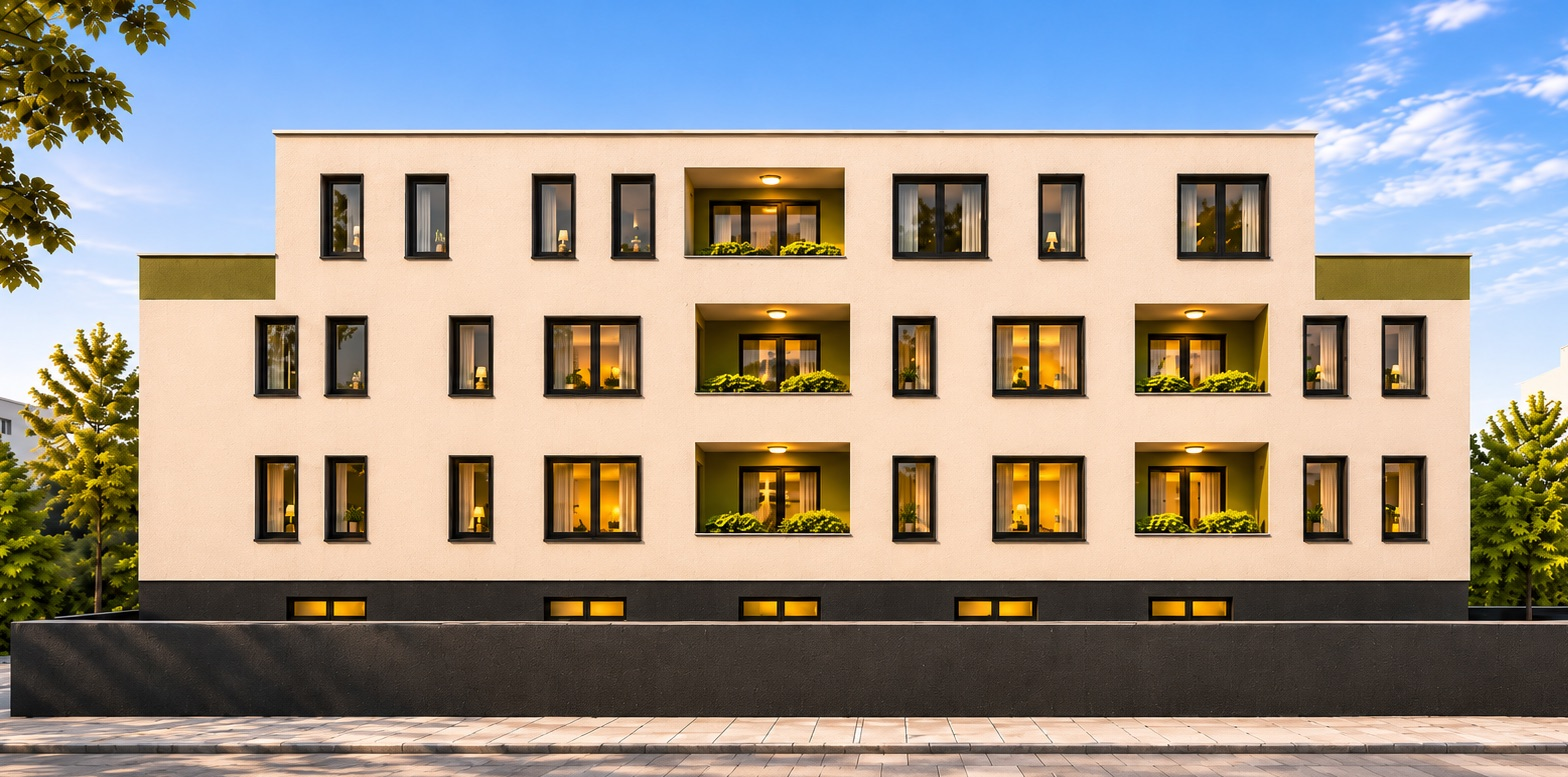
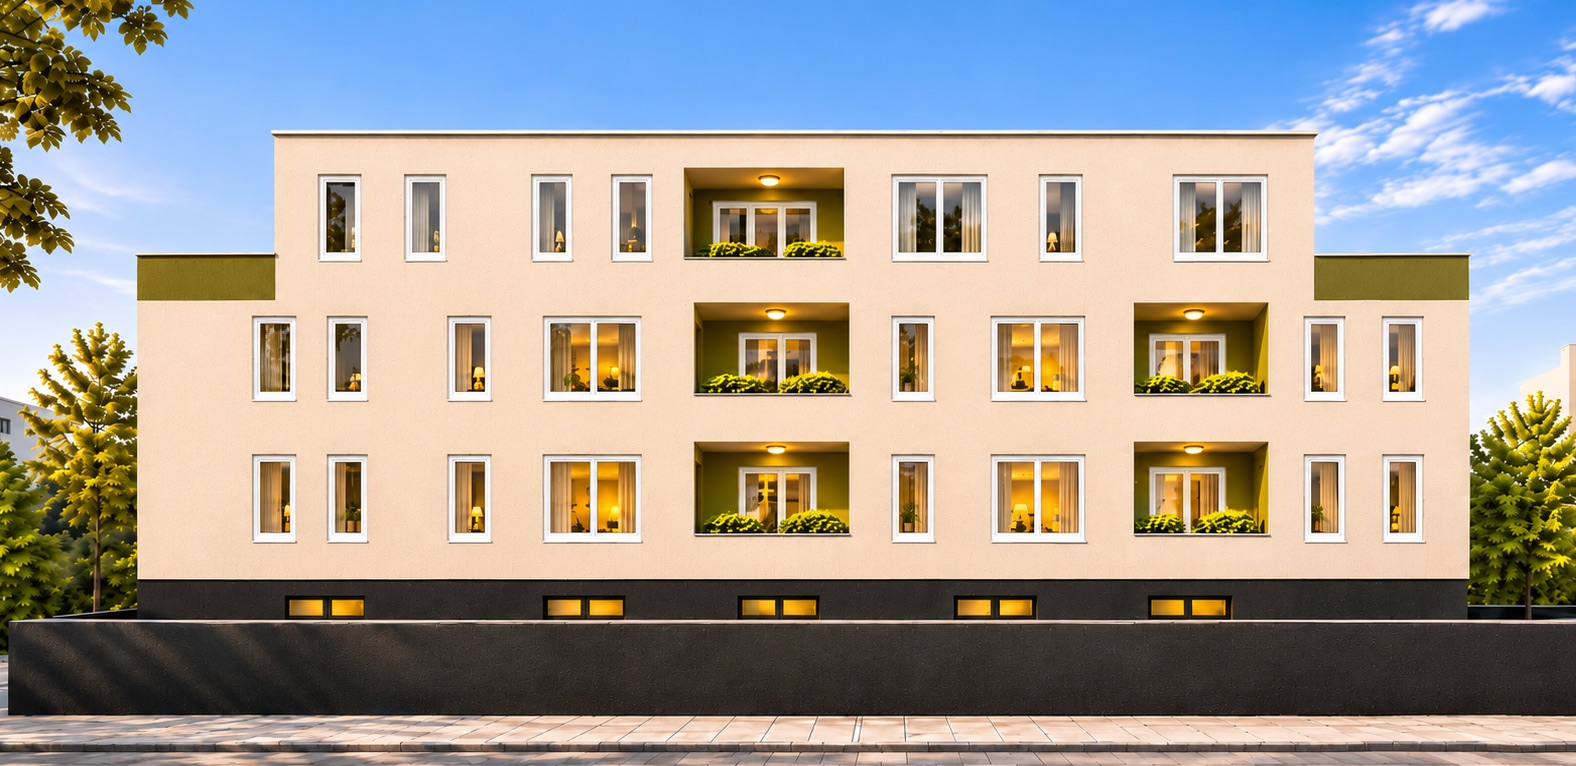
x

diff --git a/css/style.css b/css/style.css
@@ -1680,7 +1680,7 @@ p:last-child { margin-bottom: 0; }
 .hero-slide[style*="zgrada.jpg"] { background-position: center 40%; }
 
 /* Floor picker on the facade photo: show the whole building, never crop */
-.picker-media.picker-media-fit { aspect-ratio: 1568 / 777; }
+.picker-media.picker-media-fit { aspect-ratio: 1576 / 766; }
 
 /* Room-by-room breakdown inside a unit card */
 .apt-spaces { margin-top: 14px; font-size: 14px; }
@@ -1716,7 +1716,7 @@ p:last-child { margin-bottom: 0; }
 .apt-spaces dd { margin: 0; font-weight: 500; color: var(--ink); white-space: nowrap; }
 
 @media (max-width: 600px) {
-	.picker-media.picker-media-fit { aspect-ratio: 1568 / 777; }
+	.picker-media.picker-media-fit { aspect-ratio: 1576 / 766; }
 }
 
 /* "Uskoro" (coming soon) project ---------------------------------------- */
@@ -1807,3 +1807,125 @@ p:last-child { margin-bottom: 0; }
 /* Facade photo in "O projektu" */
 .overview-photo { box-shadow: var(--shadow); }
 .overview-photo img { height: auto; }
+
+/* ==========================================================================
+   Clickable project card + phone polish
+   ========================================================================== */
+
+/* "Pogledajte projekat" pill on the project photo */
+.project-open {
+	position: absolute;
+	right: 20px;
+	bottom: 20px;
+	display: inline-flex;
+	align-items: center;
+	gap: 8px;
+	padding: 12px 18px;
+	border-radius: 999px;
+	background: var(--accent);
+	box-shadow: 0 10px 24px -8px rgba(0, 0, 0, .45);
+	font-size: 14px;
+	font-weight: 600;
+	color: var(--white);
+	transition: background-color .25s, transform .25s var(--ease);
+}
+.project-open svg { transition: transform .25s var(--ease); }
+.project-media:hover .project-open { background: var(--accent-600); }
+.project-media:hover .project-open svg { transform: translateX(3px); }
+
+.project-title-link { color: inherit; transition: color .2s; }
+.project-title-link:hover { color: var(--accent-600); }
+
+/* Tap feedback on touch screens */
+a, button { -webkit-tap-highlight-color: transparent; touch-action: manipulation; }
+.btn:active { transform: scale(.97); }
+.project-media:active img,
+.other-card:active img { transform: scale(1.03); }
+.chip:active,
+.floor-btn:active,
+.contact-card:active,
+.cta-link:active { transform: scale(.98); }
+
+@media (max-width: 600px) {
+	/* Tighter vertical rhythm so pages are shorter to scroll */
+	.section { padding: 64px 0; }
+	.section-head { margin-bottom: 32px; }
+	h2 { font-size: clamp(30px, 8.6vw, 38px); }
+	.eyebrow { margin-bottom: 12px; font-size: 12px; letter-spacing: .12em; }
+
+	/* Home hero */
+	.hero-content { padding-top: 32px; padding-bottom: 28px; }
+	.pill { margin-bottom: 20px; }
+	.hero h1 { margin-bottom: 18px; }
+	.hero-lead { margin-bottom: 26px; font-size: 16px; }
+
+	/* Stats strip */
+	.stat { padding: 22px 14px; }
+	.stat strong { font-size: 34px; }
+
+	/* Project cards: clear tap target, no decorative numbers */
+	.project-num { display: none; }
+	.project-media { border-radius: var(--radius); aspect-ratio: 4 / 3.2; }
+	.project-tag { top: 14px; left: 14px; padding: 7px 12px; font-size: 12px; }
+	.project-open { right: 14px; bottom: 14px; padding: 11px 16px; font-size: 13.5px; }
+	.project-body h3 { font-size: 30px; margin-bottom: 12px; }
+	.project-body > p { font-size: 15.5px; }
+	.facts { margin: 20px 0 24px; gap: 6px; }
+	.facts li { padding: 7px 12px; font-size: 13px; }
+	.project-body .btn { width: 100%; }
+	.project + .project { margin-top: 56px; }
+
+	/* About */
+	.about-grid { gap: 40px; }
+	.about-quote { font-size: 16px; padding: 22px 24px; }
+
+	/* Steps */
+	.step { padding: 26px 22px; }
+	.step-icon { width: 44px; height: 44px; margin-bottom: 20px; }
+	.step h3 { font-size: 21px; }
+	.steps { gap: 12px; }
+
+	/* Orange contact card */
+	.cta-card { padding: 32px 20px; border-radius: var(--radius); gap: 24px; }
+	.cta-copy p { font-size: 16px; }
+	.cta-link { gap: 12px; padding: 12px 14px 12px 12px; font-size: 16px; overflow-wrap: normal; }
+	.cta-icon { width: 42px; height: 42px; border-radius: 12px; }
+
+	/* Contact page cards */
+	.contact-card { font-size: 16px; padding: 12px 14px 12px 12px; gap: 12px; overflow-wrap: normal; }
+	.contact-icon { width: 42px; height: 42px; }
+	.form-card { padding: 26px 20px; border-radius: var(--radius); }
+	.map-wrap { height: 320px; border-radius: var(--radius); }
+
+	/* Building page hero */
+	.page-hero { padding-bottom: 32px; }
+	.page-hero h1 { font-size: clamp(38px, 11vw, 52px); margin-bottom: 18px; }
+	.hero-card { padding: 16px 20px; }
+	.hero-card strong { font-size: 22px; }
+	.breadcrumb { margin-bottom: 16px; }
+
+	/* Specs table: label and value on one row */
+	.spec-list div { flex-direction: row; align-items: baseline; gap: 16px; padding: 12px 0; font-size: 14.5px; }
+	.spec-list dt { flex: 0 0 38%; }
+	.spec-list dd { flex: 1; text-align: left; }
+
+	/* Floor picker + unit list */
+	.picker-media { border-radius: var(--radius); }
+	.picker-hint { left: 10px; bottom: 10px; padding: 6px 11px; font-size: 12px; }
+	.floor-btn { padding: 13px 14px; }
+	.apt-controls { gap: 14px; margin-bottom: 20px; padding-bottom: 18px; }
+
+	/* "Uskoro" cards: keep the big word clear of the title */
+	.other-soon .soon-panel { align-items: start; padding-top: 34px; }
+	.other-soon .soon-panel span { font-size: 44px; }
+	.other-card,
+	.other-card:only-child { min-height: 240px; padding: 22px; border-radius: var(--radius); }
+	.other-card h3 { font-size: 26px; }
+
+	/* Footer: bigger tap targets */
+	.site-footer { padding-top: 56px; }
+	.footer-col li + li { margin-top: 0; }
+	.footer-col a,
+	.footer-col .soon-item { display: inline-flex; padding: 7px 0; }
+	.footer-bottom { gap: 8px; }
+}

diff --git a/index.html b/index.html
@@ -10,7 +10,7 @@
 	<link rel="preconnect" href="https://fonts.googleapis.com">
 	<link rel="preconnect" href="https://fonts.gstatic.com" crossorigin>
 	<link href="https://fonts.googleapis.com/css2?family=Inter:wght@400;500;600&family=Sora:wght@500;600;700&display=swap" rel="stylesheet">
-	<link rel="stylesheet" href="css/style.css?v=28">
+	<link rel="stylesheet" href="css/style.css?v=31">
 </head>
 <body>
 	<a class="skip-link" href="#main">Pređi na sadržaj</a>
@@ -88,7 +88,7 @@
 
 			<div class="container hero-content">
 				<p class="pill reveal"><span class="dot"></span> Kupovina bez posrednika</p>
-				<h1 class="reveal" style="--d:.1s">Gradimo prostore<br>za <em>bolji život.</em></h1>
+				<h1 class="reveal" style="--d:.1s">Gradimo nove<br>domove u<br><em>Zrenjaninu.</em></h1>
 				<p class="hero-lead reveal" style="--d:.2s">Projektujemo i gradimo stambene i poslovno-stambene zgrade sa promišljenim rasporedima, kvalitetnim materijalima i jasnim uslovima kupovine.</p>
 				<div class="hero-actions reveal" style="--d:.3s">
 					<a class="btn btn-accent" href="#projekti">Pogledajte projekte <svg width="18" height="18" aria-hidden="true"><use href="#i-arrow"/></svg></a>
@@ -131,7 +131,7 @@
 				</div>
 
 				<div class="about-media">
-					<figure class="about-img-main reveal"><img style="object-position: 25% center" src="images/tose-jovanovica-30/ulaz.jpg" alt="Toše Jovanovića 30 – ulaz i fasada" width="1536" height="1024" loading="lazy"></figure>
+					<figure class="about-img-main reveal"><img style="object-position: 25% center" src="images/tose-jovanovica-30/ulaz.jpg" alt="Toše Jovanovića 30 – ulaz i fasada" width="1535" height="1024" loading="lazy"></figure>
 					<figure class="about-img-small reveal" style="--d:.15s"><img src="images/EnterijerSlika.jpg" alt="Enterijer – dnevni boravak sa kuhinjom" width="1535" height="1024" loading="lazy"></figure>
 					<blockquote class="about-quote reveal" style="--d:.3s">
 						„Gradimo pažljivo, otvoreno i bez prečica – kao da gradimo za sebe.”
@@ -155,11 +155,12 @@
 					<a class="project-media" href="/tose-jovanovica-30/" tabindex="-1" aria-hidden="true">
 						<img src="images/tose-jovanovica-30/zgrada.jpg" alt="Toše Jovanovića 30 – vizualizacija zgrade" loading="lazy">
 						<span class="project-tag">Aktuelni projekat</span>
+						<span class="project-open">Pogledajte projekat <svg width="16" height="16" aria-hidden="true"><use href="#i-arrow"/></svg></span>
 					</a>
 					<div class="project-body">
 						<span class="project-num">01</span>
 						<p class="project-loc"><svg width="16" height="16" aria-hidden="true"><use href="#i-pin"/></svg> Zrenjanin</p>
-						<h3>Toše Jovanovića&nbsp;30</h3>
+						<h3><a class="project-title-link" href="/tose-jovanovica-30/">Toše Jovanovića&nbsp;30</a></h3>
 						<p>Poslovno-stambeni objekat sa suterenom, visokim prizemljem, spratom i povučenim spratom – osam dvosobnih apartmana sa lođom, tri stana na vrhu zgrade, garaža i lift.</p>
 						<ul class="facts">
 							<li><strong>8</strong> apartmana</li>
@@ -235,7 +236,7 @@
 						</a>
 						<a class="cta-link" href="mailto:promarhgradnja@gmail.com">
 							<span class="cta-icon"><svg width="22" height="22" aria-hidden="true"><use href="#i-mail"/></svg></span>
-							<span><small>Email</small>promarhgradnja@gmail.com</span>
+							<span><small>Email</small>promarhgradnja<wbr>@gmail.com</span>
 						</a>
 					</div>
 				</div>
@@ -284,6 +285,6 @@
 	</footer>
 
 
-	<script src="js/main.js?v=28"></script>
+	<script src="js/main.js?v=31"></script>
 </body>
 </html>

diff --git a/tose-jovanovica-30/index.html b/tose-jovanovica-30/index.html
@@ -10,7 +10,7 @@
 	<link rel="preconnect" href="https://fonts.googleapis.com">
 	<link rel="preconnect" href="https://fonts.gstatic.com" crossorigin>
 	<link href="https://fonts.googleapis.com/css2?family=Inter:wght@400;500;600&family=Sora:wght@500;600;700&display=swap" rel="stylesheet">
-	<link rel="stylesheet" href="../css/style.css?v=28">
+	<link rel="stylesheet" href="../css/style.css?v=31">
 </head>
 <body>
 	<a class="skip-link" href="#main">Pređi na sadržaj</a>
@@ -143,11 +143,11 @@
 
 				<div class="overview-media">
 					<figure class="overview-photo reveal">
-						<img src="../images/tose-jovanovica-30/fasada-2.jpg" alt="Toše Jovanovića 30 – fasada" width="1568" height="777" loading="lazy">
+						<img src="../images/tose-jovanovica-30/fasada-2.jpg" alt="Toše Jovanovića 30 – fasada" width="1576" height="766" loading="lazy">
 						<figcaption>Fasada</figcaption>
 					</figure>
 					<figure class="overview-photo reveal" style="--d:.15s">
-						<img src="../images/tose-jovanovica-30/ulaz.jpg" alt="Toše Jovanovića 30 – ulaz i garaža" width="1536" height="1024" loading="lazy">
+						<img src="../images/tose-jovanovica-30/ulaz.jpg" alt="Toše Jovanovića 30 – ulaz i garaža" width="1535" height="1024" loading="lazy">
 						<figcaption>Ulaz i garaža</figcaption>
 					</figure>
 				</div>
@@ -167,7 +167,7 @@
 
 				<div class="picker-grid">
 					<div class="picker-media picker-media-fit reveal">
-						<img src="../images/tose-jovanovica-30/fasada-2.jpg" alt="Toše Jovanovića 30 – fasada" width="1568" height="777">
+						<img src="../images/tose-jovanovica-30/fasada-2.jpg" alt="Toše Jovanovića 30 – fasada" width="1576" height="766">
 						<div class="picker-tooltip" hidden></div>
 						<span class="picker-hint">Kliknite na sprat</span>
 					</div>
@@ -219,7 +219,7 @@
 						</a>
 						<a class="cta-link" href="mailto:promarhgradnja@gmail.com?subject=Upit%20%E2%80%93%20To%C5%A1e%20Jovanovi%C4%87a%2030">
 							<span class="cta-icon"><svg width="22" height="22" aria-hidden="true"><use href="#i-mail"/></svg></span>
-							<span><small>Email</small>promarhgradnja@gmail.com</span>
+							<span><small>Email</small>promarhgradnja<wbr>@gmail.com</span>
 						</a>
 					</div>
 				</div>
@@ -285,8 +285,8 @@
 		</div>
 	</footer>
 
-	<script src="../js/data/tose-jovanovica-30.js?v=28"></script>
-	<script src="../js/building.js?v=28"></script>
-	<script src="../js/main.js?v=28"></script>
+	<script src="../js/data/tose-jovanovica-30.js?v=31"></script>
+	<script src="../js/building.js?v=31"></script>
+	<script src="../js/main.js?v=31"></script>
 </body>
 </html>

diff --git a/kontakt/index.html b/kontakt/index.html
@@ -10,7 +10,7 @@
 	<link rel="preconnect" href="https://fonts.googleapis.com">
 	<link rel="preconnect" href="https://fonts.gstatic.com" crossorigin>
 	<link href="https://fonts.googleapis.com/css2?family=Inter:wght@400;500;600&family=Sora:wght@500;600;700&display=swap" rel="stylesheet">
-	<link rel="stylesheet" href="../css/style.css?v=28">
+	<link rel="stylesheet" href="../css/style.css?v=31">
 </head>
 <body>
 	<a class="skip-link" href="#main">Pređi na sadržaj</a>
@@ -112,7 +112,7 @@
 						<li class="reveal" style="--d:.3s">
 							<a class="contact-card" href="mailto:promarhgradnja@gmail.com">
 								<span class="contact-icon"><svg width="22" height="22" aria-hidden="true"><use href="#i-mail"/></svg></span>
-								<span><small>Email</small>promarhgradnja@gmail.com</span>
+								<span><small>Email</small>promarhgradnja<wbr>@gmail.com</span>
 							</a>
 						</li>
 						<li class="reveal" style="--d:.35s">
@@ -254,7 +254,7 @@
 		</div>
 	</footer>
 
-	<script src="../js/contact.js?v=28"></script>
-	<script src="../js/main.js?v=28"></script>
+	<script src="../js/contact.js?v=31"></script>
+	<script src="../js/main.js?v=31"></script>
 </body>
 </html>

diff --git a/js/data/tose-jovanovica-30.js b/js/data/tose-jovanovica-30.js
@@ -13,24 +13,24 @@ window.BUILDING = {
  },
  "image": {
   "src": "../images/tose-jovanovica-30/fasada-2.jpg",
-  "width": 1568,
-  "height": 777
+  "width": 1576,
+  "height": 766
  },
  "floors": [
   {
    "key": "vp",
    "label": "Visoko prizemlje",
-   "polygon": "139,425 1469,425 1469,580 139,580"
+   "polygon": "137,425 1469,425 1469,580 137,580"
   },
   {
    "key": "1",
    "label": "1. sprat",
-   "polygon": "139,255 1469,255 1469,425 139,425"
+   "polygon": "137,255 1469,255 1469,425 137,425"
   },
   {
    "key": "ps",
    "label": "Povučeni sprat",
-   "polygon": "274,131 1316,131 1316,255 274,255"
+   "polygon": "273,131 1316,131 1316,255 273,255"
   }
  ],
  "apartments": [
